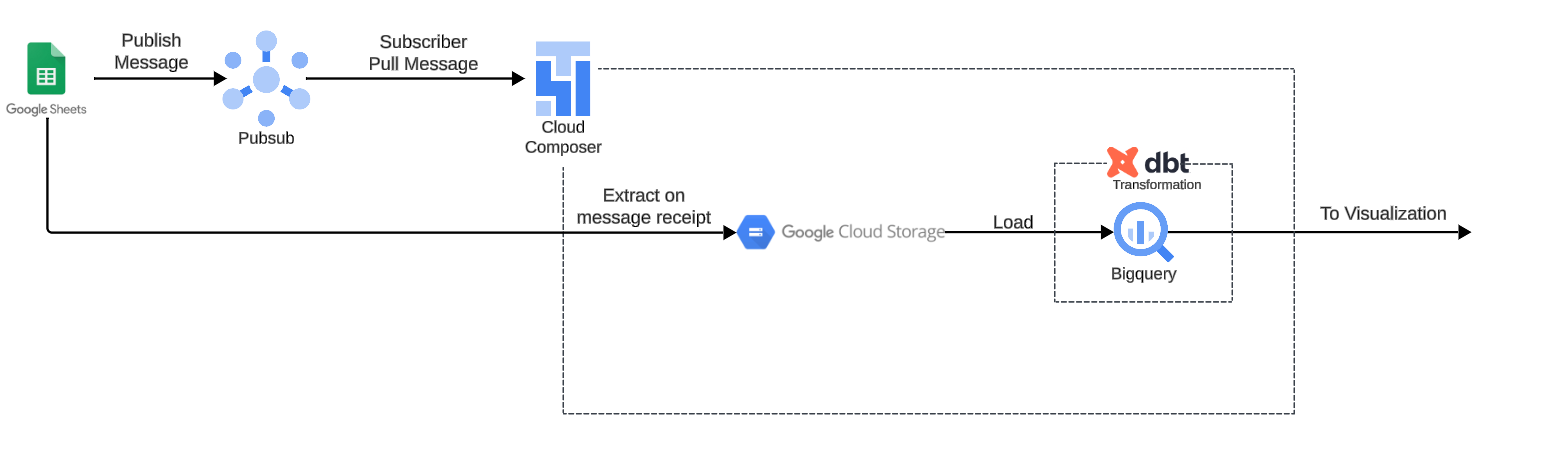
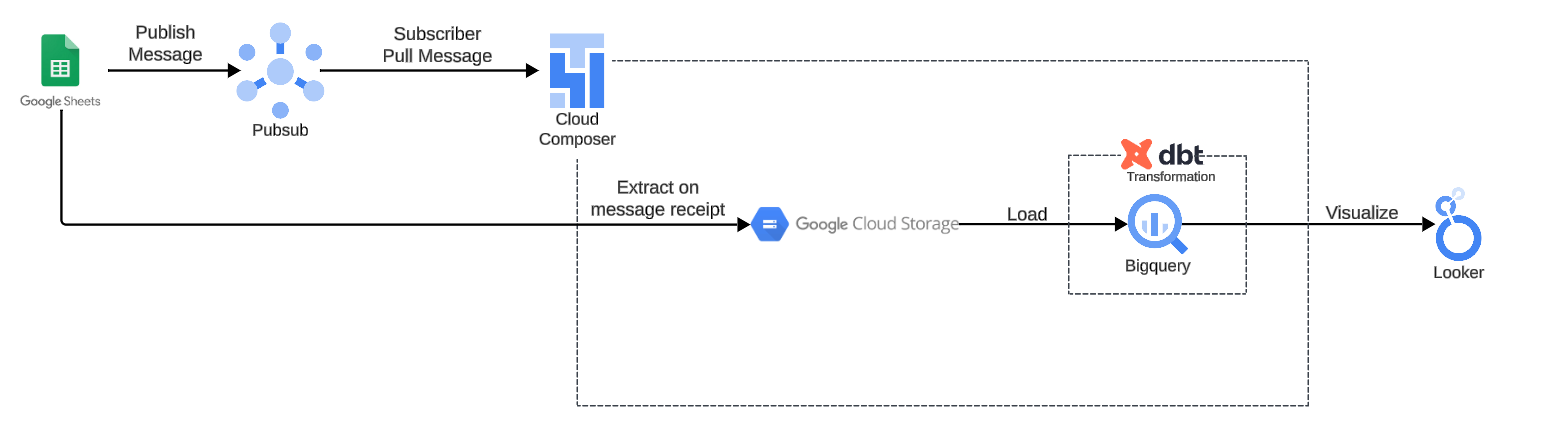
fixed cast functions in mart models, added looker, updated readme

Changed region(s): [[0.0, 0.0587, 0.9656, 0.6749], [0.3738, 0.9097, 0.841, 0.9391]]

diff --git a/README.md b/README.md
@@ -1,8 +1,8 @@
 # pubsub-elt-pipeline
 
-- The purpose of this project is to learn how to use the following tools specifically: Pub/Sub, Cloud Composer, BigQuery, and DBT. 
+- The purpose of this project is to learn how to use the following tools specifically: Pub/Sub, Cloud Composer, BigQuery, DBT, and Looker Studio. 
 
-- This project expands on my previous project "amazon-elt-pipeline" where I utilized a local csv data source, and local airflow. In this project, I import the sample amazon sales data to a Google Sheet in order to simulate a live data environment and utilize Pub/Sub to perform event driven data ingestion. In lieu of running a local Apache Airflow environment, I opted to utilize Cloud Composer. I did not build any visuals in this case, as the focus was on implementing a working Cloud Composer environment, and successfully publishing and pulling messages from Pub/Sub.
+- This project expands on my previous project "amazon-elt-pipeline" where I utilized a local csv data source, and local airflow. In this project, I import the sample amazon sales data to a Google Sheet in order to simulate a live data environment and utilize Pub/Sub to perform event driven data ingestion. In lieu of running a local Apache Airflow environment, I opted to utilize Cloud Composer. The visuals this time were recreated in Looker Studio.
 
 - I utilized an AppsScript within the Google Sheet and created an onEdit trigger to publish a message to Pub/Sub. My Composer environment is setup to be a subscriber in this case, and the DAG within my Composer environment will pull/listen for a message from Pub/Sub. Upon receipt of a message from Pub/Sub, the data will be extracted from the sheet, loaded into BigQuery, and transformed with DBT. 
 
@@ -39,3 +39,6 @@ BigQuery
 
 DBT Lineage Graph
 ![DBT Lineage Graph](images_readme/9_dbt_lineagegraph.png)
+
+Looker Studio
+![Looker Studio](images_readme/10_looker.png)
